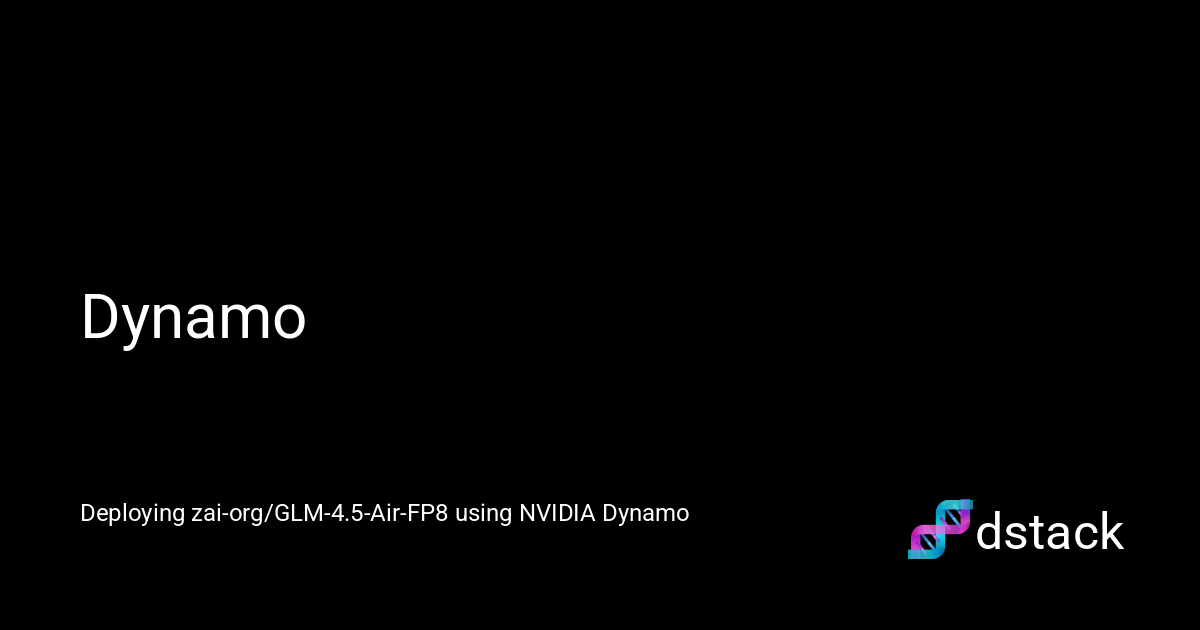
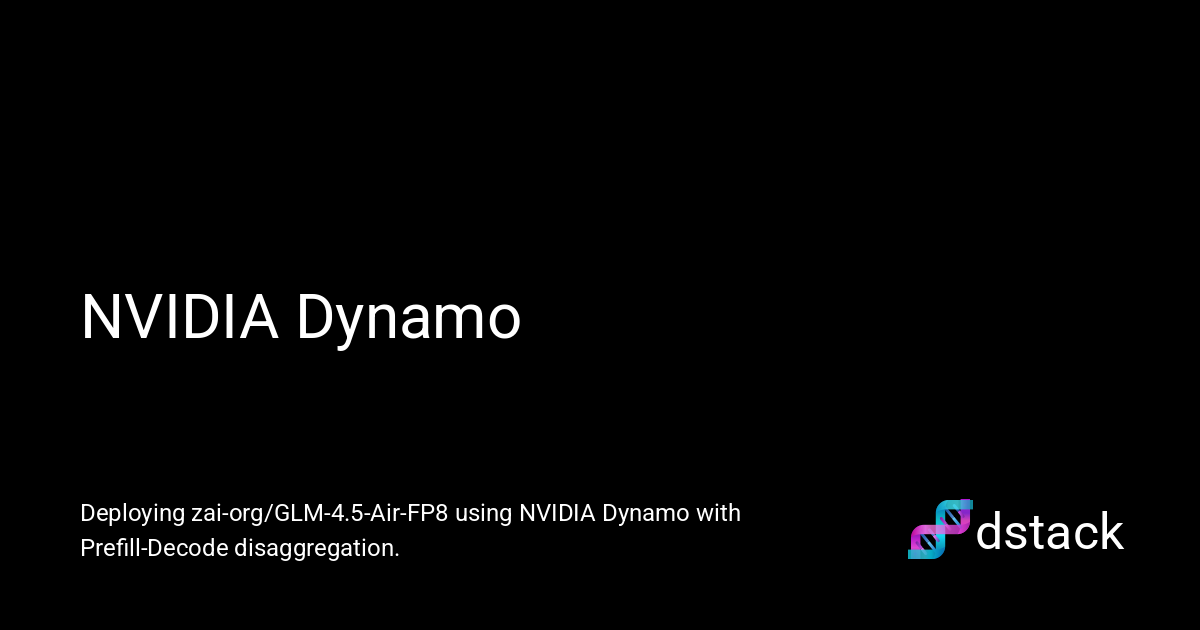
Deploying to gh-pages from @ dstackai/dstack@117195d7194555f3556920d3a0b38f8cb76041ce 🚀

Changed region(s): [[0.0617, 0.4524, 0.4317, 0.573], [0.0617, 0.8444, 0.3392, 0.9048], [0.5858, 0.7841, 0.6167, 0.8444]]

diff --git a/docs/examples/inference/dynamo/index.html b/docs/examples/inference/dynamo/index.html
@@ -6,7 +6,7 @@
       <meta charset="utf-8">
       <meta name="viewport" content="width=device-width,initial-scale=1">
       
-        <meta name="description" content="Deploying zai-org/GLM-4.5-Air-FP8 using NVIDIA Dynamo">
+        <meta name="description" content="Deploying zai-org/GLM-4.5-Air-FP8 using NVIDIA Dynamo with Prefill-Decode disaggregation.">
       
       
         <meta name="author" content="dstack GmbH">
@@ -29,7 +29,7 @@
     
     
       
-        <title>Dynamo - dstack</title>
+        <title>NVIDIA Dynamo - dstack</title>
       
     
     
@@ -134,16 +134,16 @@
 
   
 <meta property="og:type" content="website" />
-<meta property="og:title" content="Dynamo - dstack" />
-<meta property="og:description" content="Deploying zai-org/GLM-4.5-Air-FP8 using NVIDIA Dynamo" />
+<meta property="og:title" content="NVIDIA Dynamo - dstack" />
+<meta property="og:description" content="Deploying zai-org/GLM-4.5-Air-FP8 using NVIDIA Dynamo with Prefill-Decode disaggregation." />
 <meta property="og:image" content="https://dstack.ai/assets/images/social/docs/examples/inference/dynamo.png" />
 <meta property="og:image:type" content="image/png" />
 <meta property="og:image:width" content="1200" />
 <meta property="og:image:height" content="630" />
 <meta property="og:url" content="https://dstack.ai/docs/examples/inference/dynamo/" />
 <meta property="twitter:card" content="summary_large_image" />
-<meta property="twitter.title" content="Dynamo - dstack" />
-<meta property="twitter:description" content="Deploying zai-org/GLM-4.5-Air-FP8 using NVIDIA Dynamo" />
+<meta property="twitter.title" content="NVIDIA Dynamo - dstack" />
+<meta property="twitter:description" content="Deploying zai-org/GLM-4.5-Air-FP8 using NVIDIA Dynamo with Prefill-Decode disaggregation." />
 <meta property="twitter:image" content="https://dstack.ai/assets/images/social/docs/examples/inference/dynamo.png" />
 </head>
   
@@ -214,7 +214,7 @@
         <div class="md-header__topic" data-md-component="header-topic">
           <span class="md-ellipsis">
             
-              Dynamo
+              NVIDIA Dynamo
             
           </span>
         </div>

diff --git a/docs/examples/inference/dynamo.md b/docs/examples/inference/dynamo.md
@@ -1,6 +1,6 @@
 ---
-title: Dynamo
-description: Deploying zai-org/GLM-4.5-Air-FP8 using NVIDIA Dynamo
+title: NVIDIA Dynamo
+description: Deploying zai-org/GLM-4.5-Air-FP8 using NVIDIA Dynamo with Prefill-Decode disaggregation.
 ---
 
 # Dynamo
